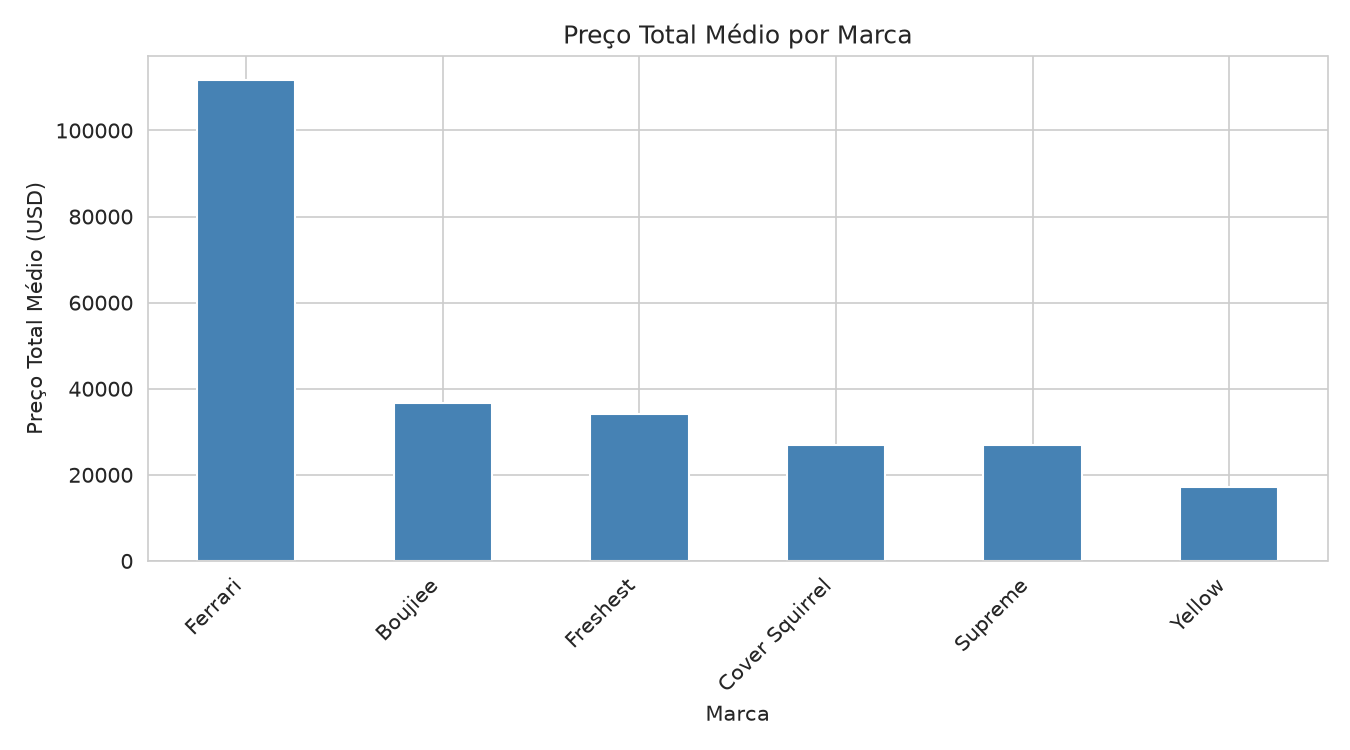
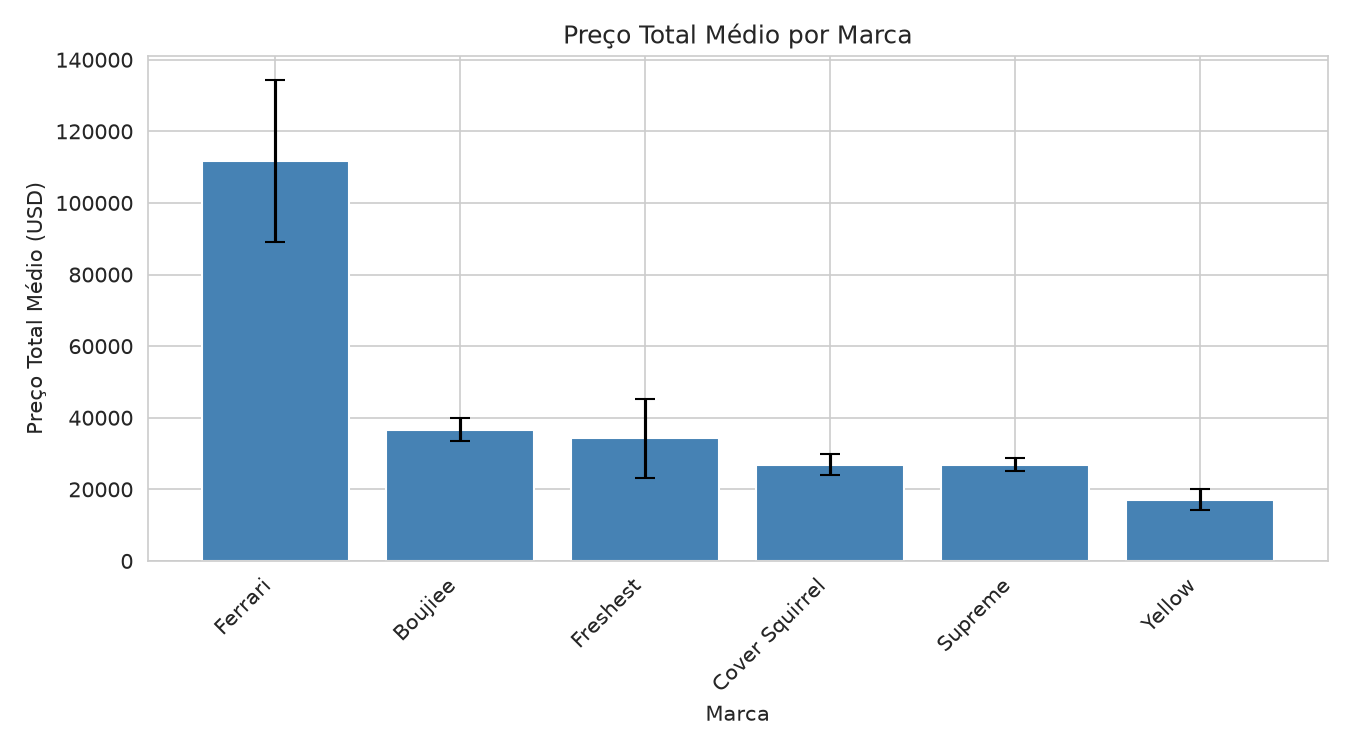
:books: Docs: Formantando desvio padrão nulo

diff --git a/data_science/Atv_customers/clientes.py b/data_science/Atv_customers/clientes.py
@@ -78,15 +78,27 @@ print("\n Estatísticas descritivas do preço pago ")
 print(df['purchase_price'].describe())
 
 print("\n Renda média e preço médio pago, por gênero ")
-por_genero = df.groupby('gender')[['household_income', 'purchase_price']].mean()
+# por_genero = df.groupby('gender')[['household_income', 'purchase_price']].mean()
+# print(por_genero)
+por_genero = df.groupby('gender').agg(
+    renda_media=('household_income', 'mean'),
+    renda_desvio_padrao=('household_income', 'std'),
+    preco_medio=('purchase_price', 'mean'),
+    preco_desvio_padrao=('purchase_price', 'std'),
+    qtd_clientes=('purchase_price', 'count'),
+)
 print(por_genero)
 
 print("\n Idade média dos clientes no momento da compra ")
-print(df['idade_na_compra'].mean())
+print(f"Média: {df['idade_na_compra'].mean():.1f} anos")
+print(f"Desvio padrão: {df['idade_na_compra'].std():.1f} anos")
 
 print("\n Preço médio pago por concessionária ")
-por_dealer = df.groupby('dealer_name')['purchase_price'].mean().sort_values(ascending=False)
-print(por_dealer)
+stats_dealer = df.groupby('dealer_name')['purchase_price'].agg(
+    media='mean', desvio_padrao='std', qtd_compras='count'
+).sort_values('media', ascending=False)
+print(stats_dealer.fillna('-'))
+por_dealer = stats_dealer['media']
 
 print("\n Correlação entre renda familiar e preço pago pelo carro ")
 correlacao = df[['household_income', 'purchase_price', 'idade_na_compra']].corr()
@@ -110,7 +122,13 @@ plt.close()
 
 # 2) Preço médio pago por concessionária
 plt.figure(figsize=(8, 5))
-por_dealer.plot(kind='bar', color='mediumseagreen')
+plt.bar(
+    stats_dealer.index,
+    stats_dealer['media'],
+    yerr=stats_dealer['desvio_padrao'],
+    capsize=5,
+    color='mediumseagreen',
+)
 plt.title('Preço Médio Pago por Concessionária')
 plt.xlabel('Concessionária')
 plt.ylabel('Preço Médio (USD)')

diff --git a/data_science/Atv_car_options/car_options.py b/data_science/Atv_car_options/car_options.py
@@ -70,12 +70,24 @@ print("\n Estatísticas descritivas do preço total ")
 print(df['total_price'].describe())
 
 print("\n Preço médio total por marca ")
-media_por_marca = df.groupby('brand_name')['total_price'].mean().sort_values(ascending=False)
-print(media_por_marca)
+# media_por_marca = df.groupby('brand_name')['total_price'].mean().sort_values(ascending=False)
+# print(media_por_marca)
+media_por_marca = df.groupby('brand_name')['total_price'].agg(
+    media='mean', 
+    desvio_padrao='std', 
+    qtd_carros='count'
+    ).sort_values('media', ascending=False)
+print(media_por_marca.fillna('-'))
 
 print("\n Preço médio das opções por cor ")
-media_por_cor = df.groupby('color')['option_set_price'].mean().sort_values(ascending=False)
-print(media_por_cor)
+# media_por_cor = df.groupby('color')['option_set_price'].mean().sort_values(ascending=False)
+# print(media_por_cor)
+media_por_cor = df.groupby('color')['option_set_price'].agg(
+    media='mean', 
+    desvio_padrao='std', 
+    qtd_carros='count'
+    ).sort_values('media', ascending=False)
+print(media_por_cor.fillna('-'))
 
 print("\n Correlação entre preço base do modelo e preço das opções ")
 correlacao = df[['model_base_price', 'option_set_price', 'total_price']].corr()
@@ -84,7 +96,12 @@ print(correlacao)
 sns.set_style("whitegrid")
 # 1) Preço total médio por marca
 plt.figure(figsize=(9, 5))
-media_por_marca.plot(kind='bar', color='steelblue')
+plt.bar(media_por_marca.index,
+    media_por_marca['media'],
+    yerr=media_por_marca['desvio_padrao'],
+    capsize=5,
+    color='steelblue',
+    )
 plt.title('Preço Total Médio por Marca')
 plt.ylabel('Preço Total Médio (USD)')
 plt.xlabel('Marca')
